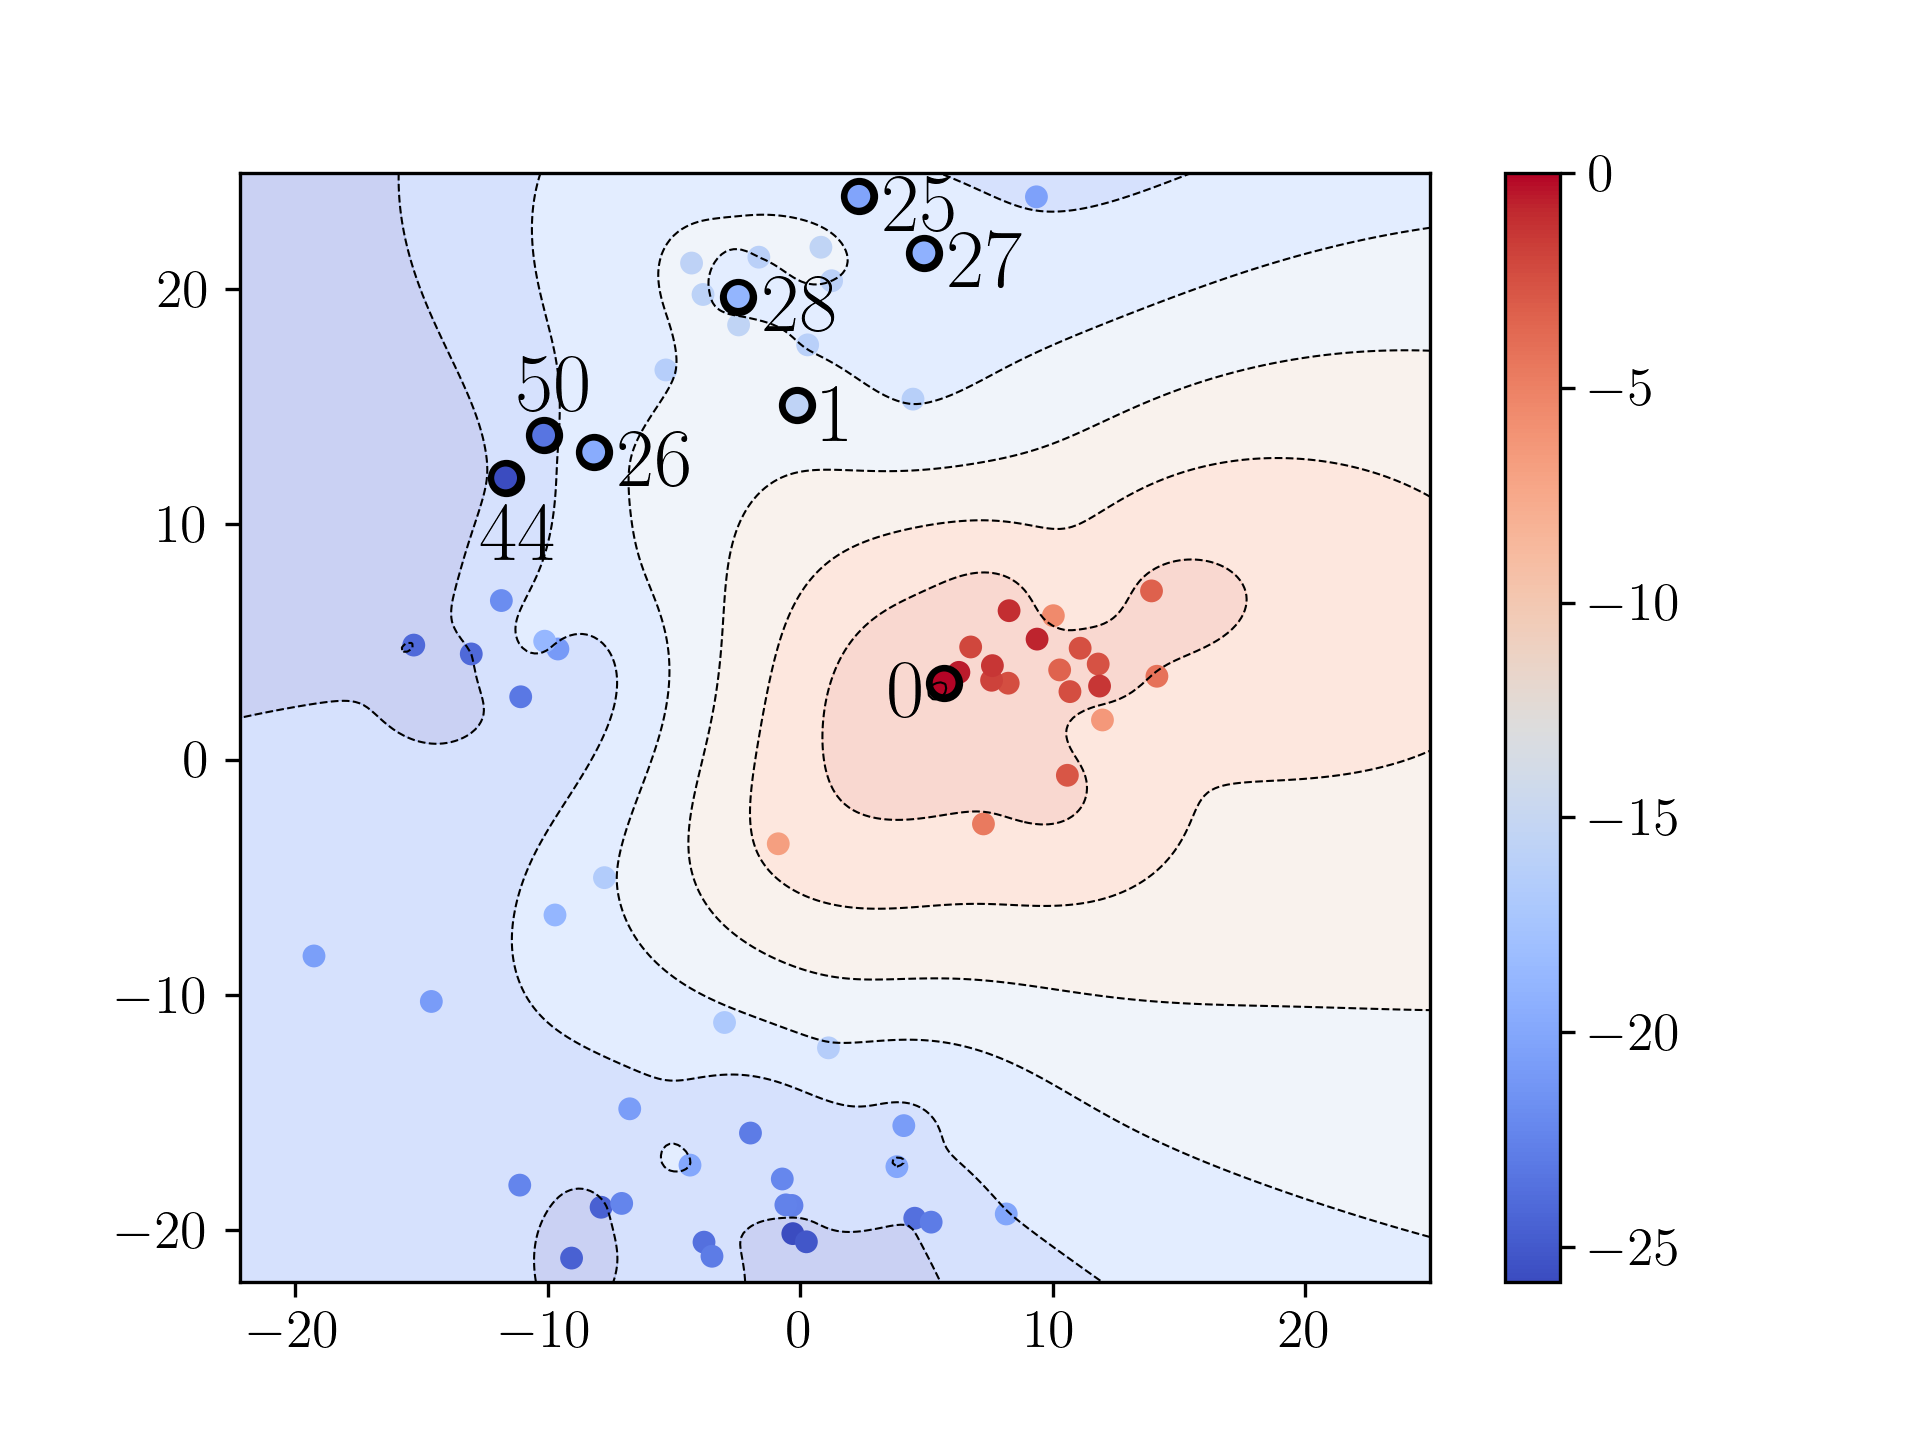
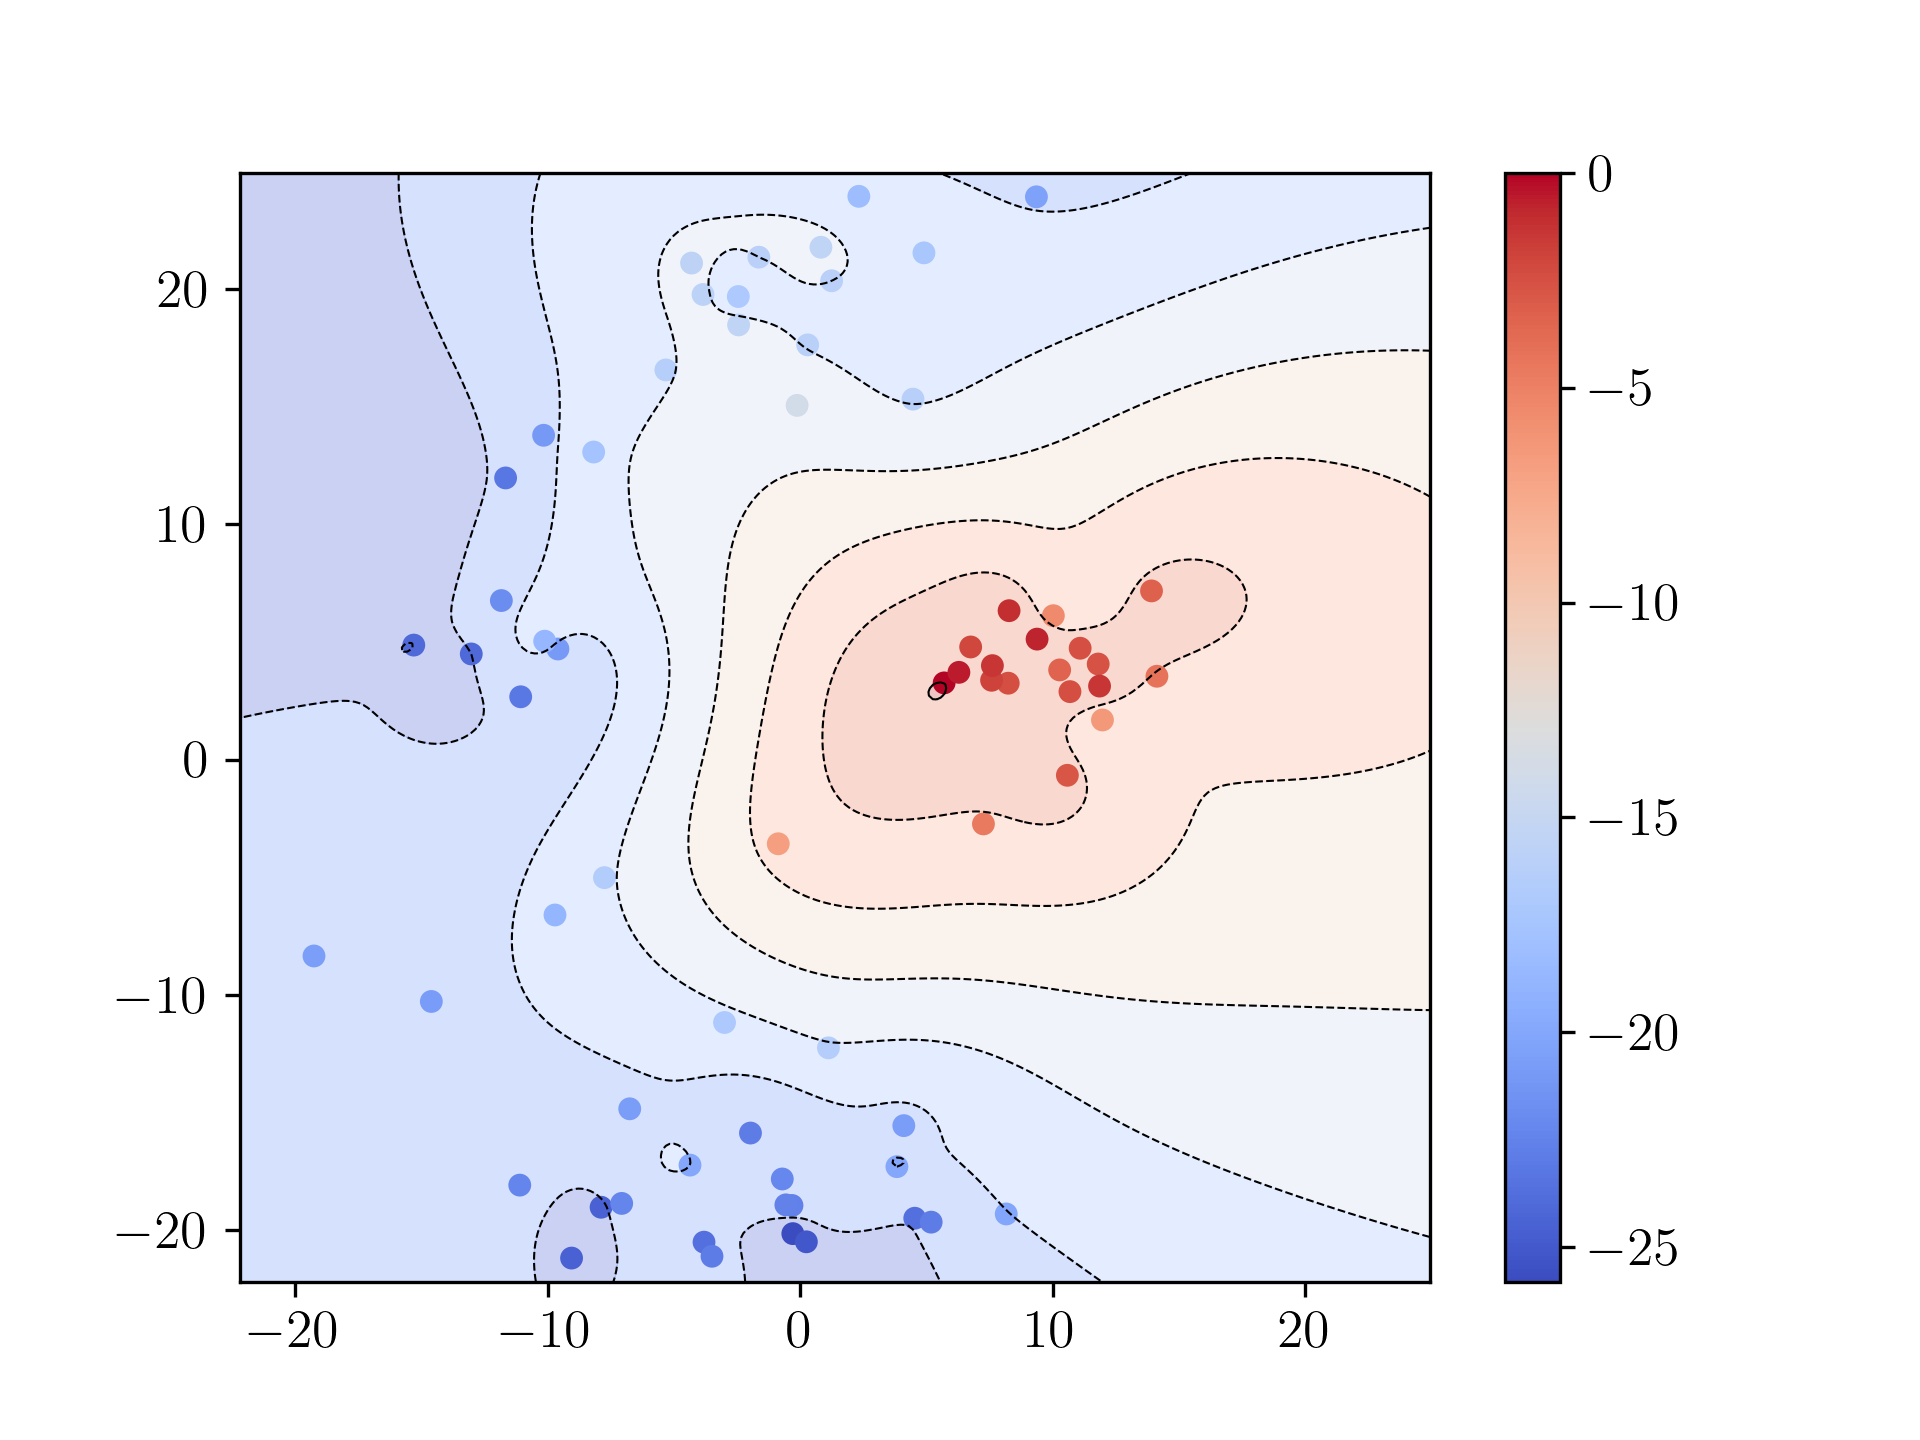
surf

diff --git a/utility/surface.py b/utility/surface.py
@@ -98,6 +98,7 @@ def main():
                        dissimilarity="precomputed", n_jobs=20)
     pos = mds.fit_transform(dist_mat)
 
+    min_id, mfe_id= 0, min(list(enumerate(structures)), key=lambda el: el[1][1])[0]
     nrjs = [nrj for st, nrj in structures]
 
     # print the id of some structures
@@ -132,13 +133,12 @@ def main():
     # print(id_struct)
     # print(pos[id_struct, 0])
 
-
     surf = ax.scatter(pos[:, 0], pos[:, 1], c=nrjs, s=30, lw=0, label='MDS',
                       cmap=cm.coolwarm, alpha=1.0)
 
-    # ax.scatter(pos[id_struct, 0], pos[id_struct, 1], c="black", s=80, lw=0, alpha=1.0)
-    # ax.scatter(pos[id_struct, 0], pos[id_struct, 1], c=array(nrjs)[id_struct], s=30, lw=0,
-    #            label='MDS', cmap=cm.coolwarm, alpha=1.0)
+    ax.scatter(pos[[min_id, mfe_id], 0], pos[[min_id, mfe_id], 1], c="black", s=80, lw=0, alpha=1.0)
+    ax.scatter(pos[[min_id, mfe_id], 0], pos[[min_id, mfe_id], 1], c=array(nrjs)[[min_id, mfe_id]], s=30, lw=0,
+               label='MDS', cmap=cm.coolwarm, alpha=1.0)
 
     # print some structure ids
     # for px, py, ist in zip(pos[id_struct, 0], pos[id_struct, 1], id_struct):
